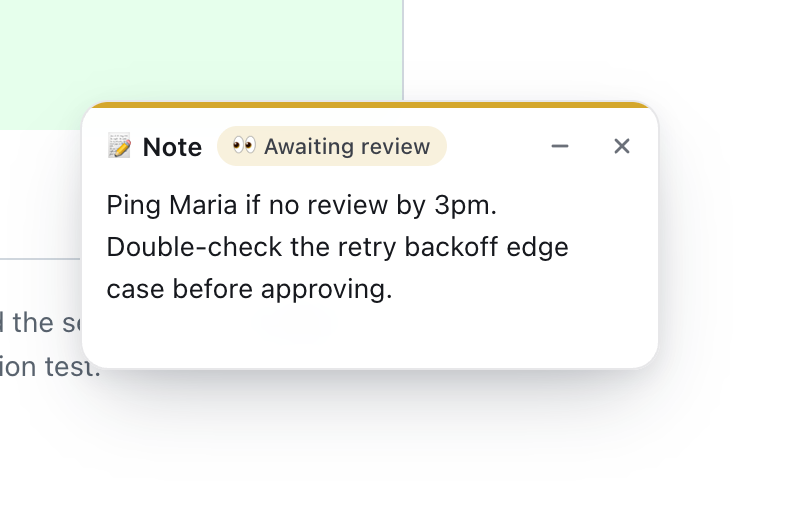
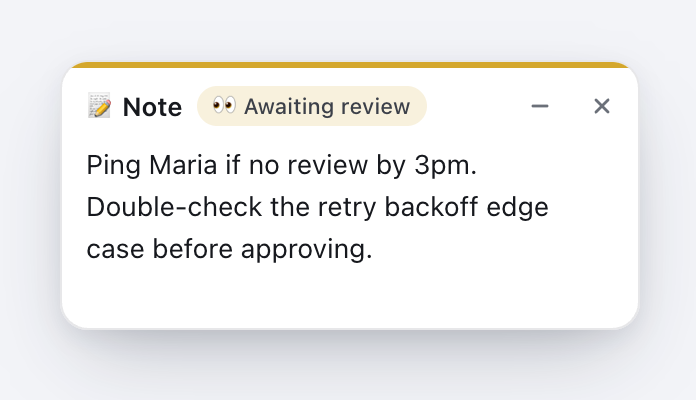
README: cleaner sticky-note screenshot

diff --git a/README.md b/README.md
@@ -112,7 +112,7 @@ Developed and tested in Brave. Any Chromium browser with Manifest V3 should work
 ### Sticky notes on the page
 
 <p align="center">
-  <img src="docs/media/note.png" alt="A floating note card on a pull request page, showing the Awaiting review label and two lines of text" width="400">
+  <img src="docs/media/note.png" alt="A floating note card showing the Awaiting review label and two lines of text" width="360">
 </p>
 
 - Every tab can have a note. It floats on the page in a card that you can drag, collapse, hide and edit right there.
